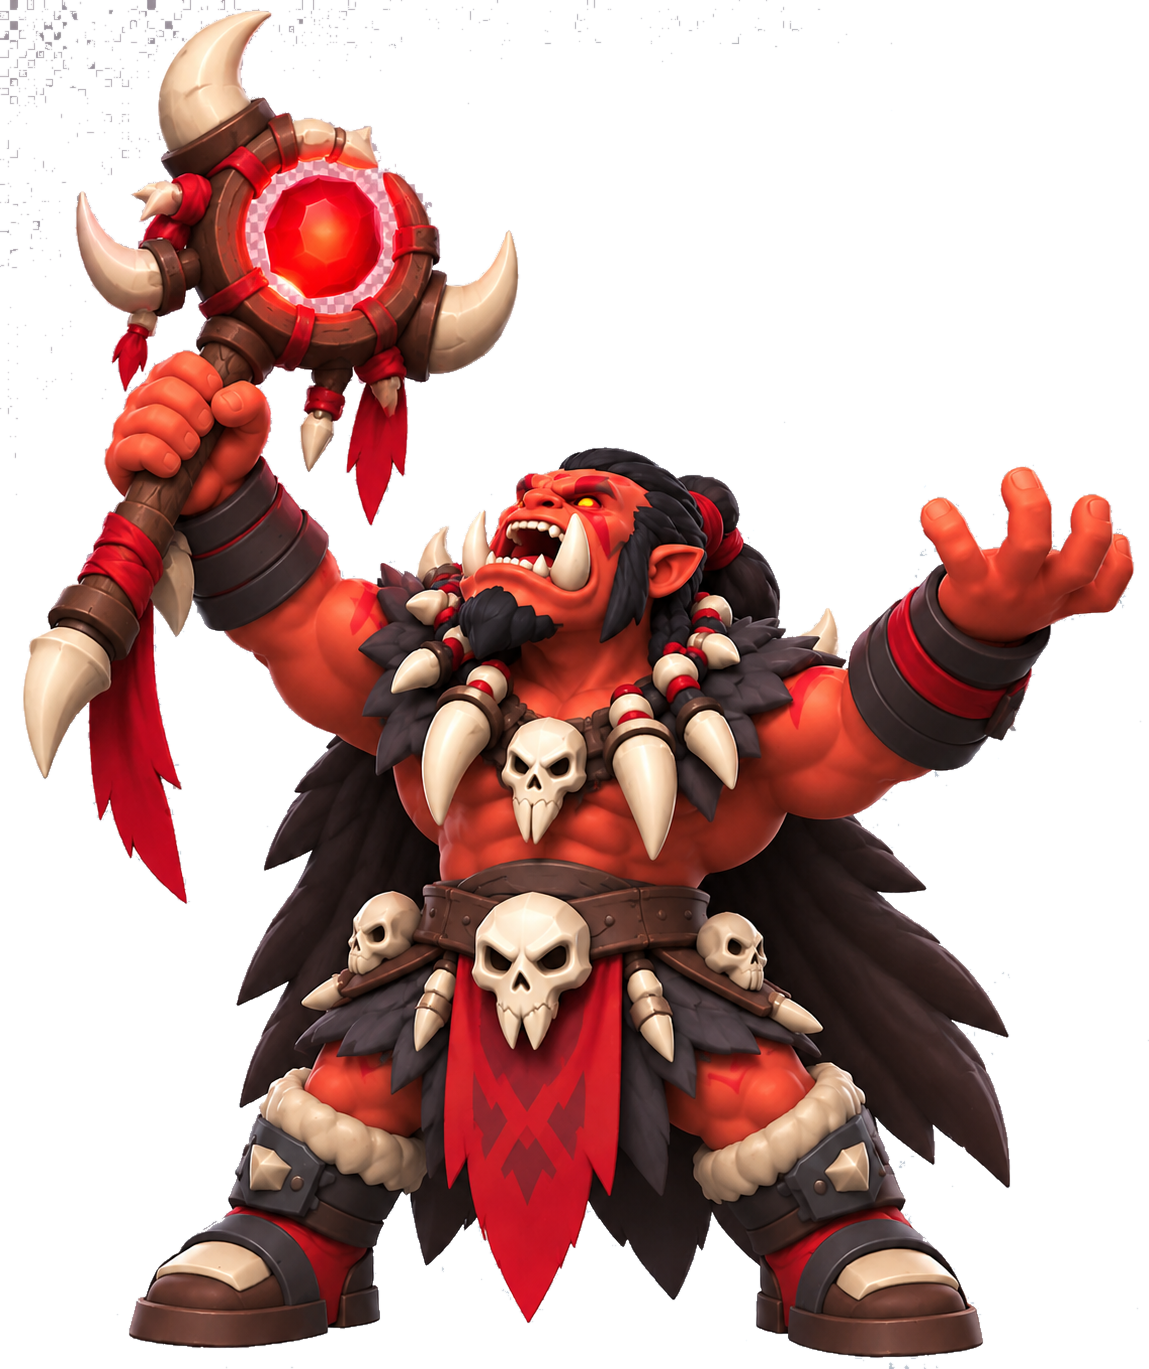
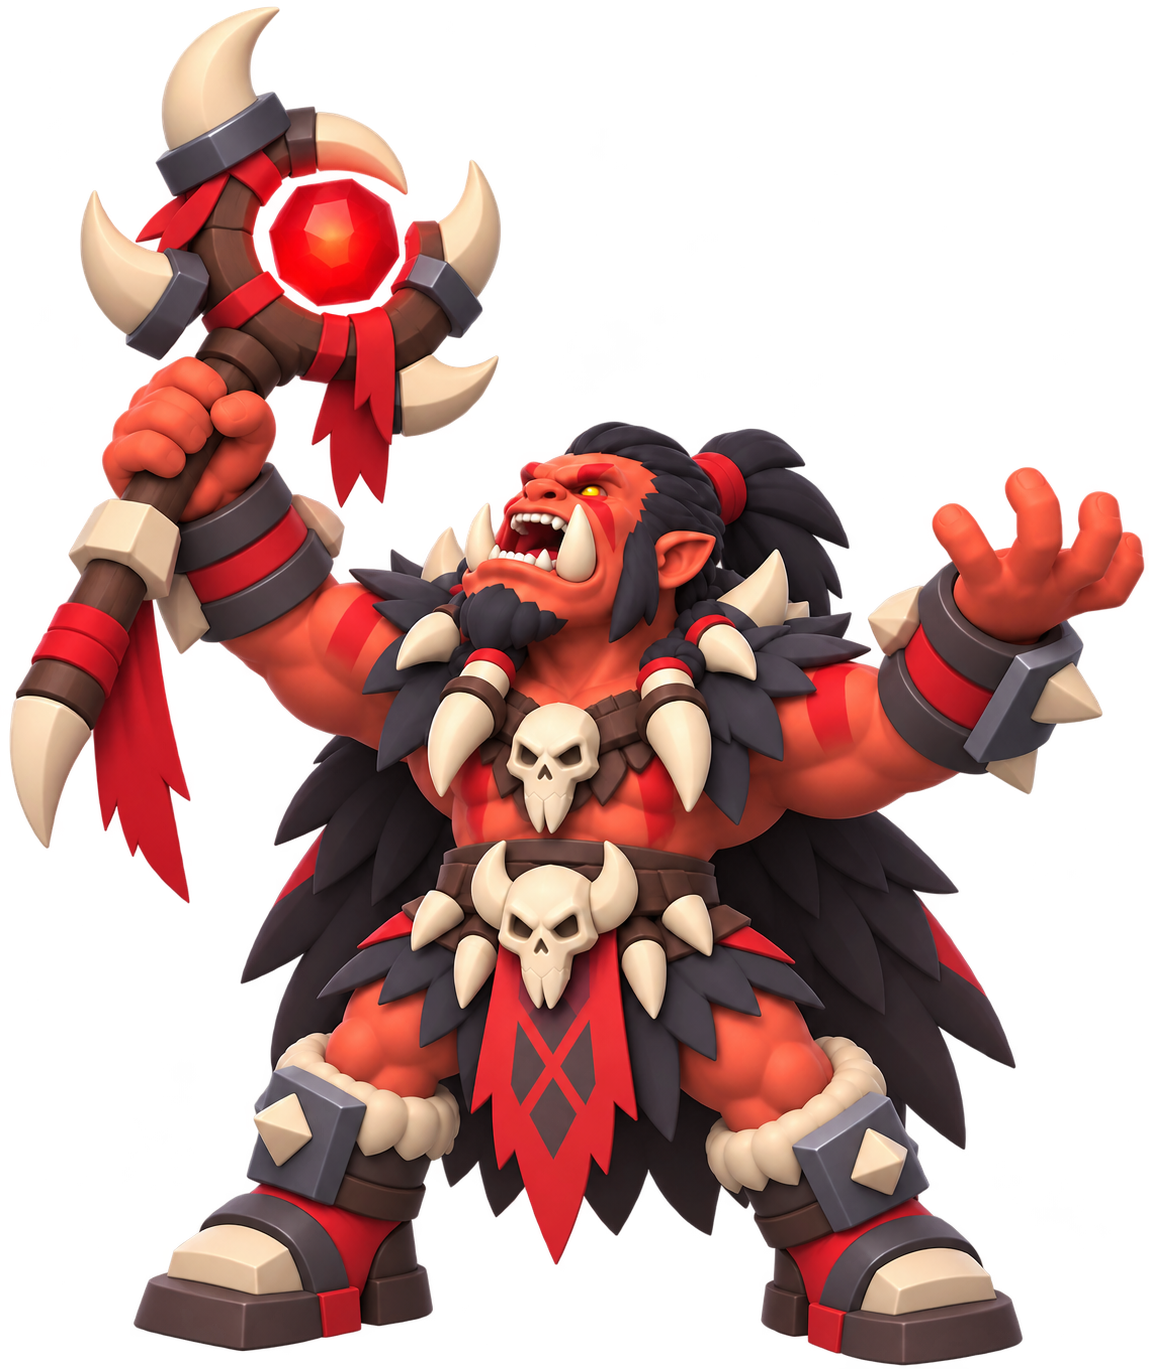
feat: replace chapter 3-3 monster artwork

diff --git a/chapter-three-map-policy.js b/chapter-three-map-policy.js
@@ -46,12 +46,12 @@
     skullcrusherWarrior: enemy('skullcrusher-warrior', '碎顱戰士', 'normal', ['high-health', 'high-defense', 'battle-cry'], 'assets/skullcrusher-warrior.png'),
     brokenrockBrute: enemy('brokenrock-brute', '斷岩蠻兵', 'elite', ['two-handed-weapon', 'brute-smash', 'bloodlust'], 'assets/brokenrock-brute.png'),
     canyonWarlord: enemy('canyon-warlord', '峽谷督軍', 'boss', ['warlord-slash', 'offensive-command', 'execution-command'], 'assets/canyon-warlord.png'),
-    skullcrusherBerserker: enemy('skullcrusher-berserker', '碎顱狂戰士', 'normal', ['blood-rage'], 'assets/skullcrusher-berserker.png'),
-    skullcrusherShieldguard: enemy('skullcrusher-shieldguard', '碎顱盾衛', 'normal', ['shield-wall'], 'assets/skullcrusher-shieldguard.png'),
-    skullcrusherHunter: enemy('skullcrusher-hunter', '碎顱獵手', 'normal', ['hunting-mark'], 'assets/skullcrusher-hunter.png'),
-    skullcrusherShaman: enemy('skullcrusher-shaman', '碎顱薩滿', 'normal', ['warblood-totem'], 'assets/skullcrusher-shaman.png'),
-    skullcrusherCenturion: enemy('skullcrusher-centurion', '碎顱百夫長', 'elite', ['centurion-cleave', 'battle-formation-command'], 'assets/skullcrusher-centurion.png'),
-    skullcrusherVanguard: enemy('skullcrusher-vanguard-commander', '碎顱先鋒統領', 'boss', ['vanguard-smash', 'full-army-charge', 'fight-to-the-end'], 'assets/skullcrusher-vanguard-commander.png'),
+    skullcrusherBerserker: enemy('skullcrusher-berserker', '碎顱狂戰士', 'normal', ['blood-rage'], 'assets/skullcrusher-berserker.png?v=20260919'),
+    skullcrusherShieldguard: enemy('skullcrusher-shieldguard', '碎顱盾衛', 'normal', ['shield-wall'], 'assets/skullcrusher-shieldguard.png?v=20260919'),
+    skullcrusherHunter: enemy('skullcrusher-hunter', '碎顱獵手', 'normal', ['hunting-mark'], 'assets/skullcrusher-hunter.png?v=20260919'),
+    skullcrusherShaman: enemy('skullcrusher-shaman', '碎顱薩滿', 'normal', ['warblood-totem'], 'assets/skullcrusher-shaman.png?v=20260919'),
+    skullcrusherCenturion: enemy('skullcrusher-centurion', '碎顱百夫長', 'elite', ['centurion-cleave', 'battle-formation-command'], 'assets/skullcrusher-centurion.png?v=20260919'),
+    skullcrusherVanguard: enemy('skullcrusher-vanguard-commander', '碎顱先鋒統領', 'boss', ['vanguard-smash', 'full-army-charge', 'fight-to-the-end'], 'assets/skullcrusher-vanguard-commander.png?v=20260919'),
     skullcrusherHeavyGuard: enemy('skullcrusher-heavy-guard', '碎顱重甲衛士', 'normal', ['heavy-armor-line'], 'assets/skullcrusher-heavy-guard.png'),
     skullcrusherWolfRider: enemy('skullcrusher-wolf-rider', '碎顱戰狼騎兵', 'normal', ['warwolf-assault'], 'assets/skullcrusher-wolf-rider.png'),
     skullcrusherChampion: enemy('skullcrusher-champion', '碎顱勇士', 'elite', ['champion-slash', 'unyielding-will'], 'assets/skullcrusher-champion.png'),

diff --git a/script.js b/script.js
@@ -688,12 +688,12 @@ const monsterVisualScaleCorrections = {
   'skullcrusher-warrior': 1.05,
   'brokenrock-brute': 1,
   'canyon-warlord': 1.06,
-  'skullcrusher-berserker': 1,
-  'skullcrusher-shieldguard': 1.06,
-  'skullcrusher-hunter': .98,
-  'skullcrusher-shaman': .96,
-  'skullcrusher-centurion': .98,
-  'skullcrusher-vanguard-commander': .98,
+  'skullcrusher-berserker': 1.06,
+  'skullcrusher-shieldguard': 1.02,
+  'skullcrusher-hunter': .94,
+  'skullcrusher-shaman': .94,
+  'skullcrusher-centurion': 1.04,
+  'skullcrusher-vanguard-commander': .96,
   'skullcrusher-heavy-guard': 1.05,
   'skullcrusher-wolf-rider': 1.08,
   'skullcrusher-champion': 1.08,

diff --git a/tests/chapter-three-monster-visual-size.test.js b/tests/chapter-three-monster-visual-size.test.js
@@ -12,10 +12,16 @@ chapterThreeIds.forEach((enemyId) => {
 });
 
 [
-  ['redrock-lizard', 1.32],
-  ['wasteland-vulture', 1.35],
-  ['redrock-giant-lizard', 1.33],
-  ['temple-executioner', 1.38]
+  ['redrock-lizard', '1.32'],
+  ['wasteland-vulture', '1.35'],
+  ['redrock-giant-lizard', '1.33'],
+  ['temple-executioner', '1.38'],
+  ['skullcrusher-berserker', '1.06'],
+  ['skullcrusher-shieldguard', '1.02'],
+  ['skullcrusher-hunter', '.94'],
+  ['skullcrusher-shaman', '.94'],
+  ['skullcrusher-centurion', '1.04'],
+  ['skullcrusher-vanguard-commander', '.96']
 ].forEach(([enemyId, expectedScale]) => {
   assert.match(
     script,
